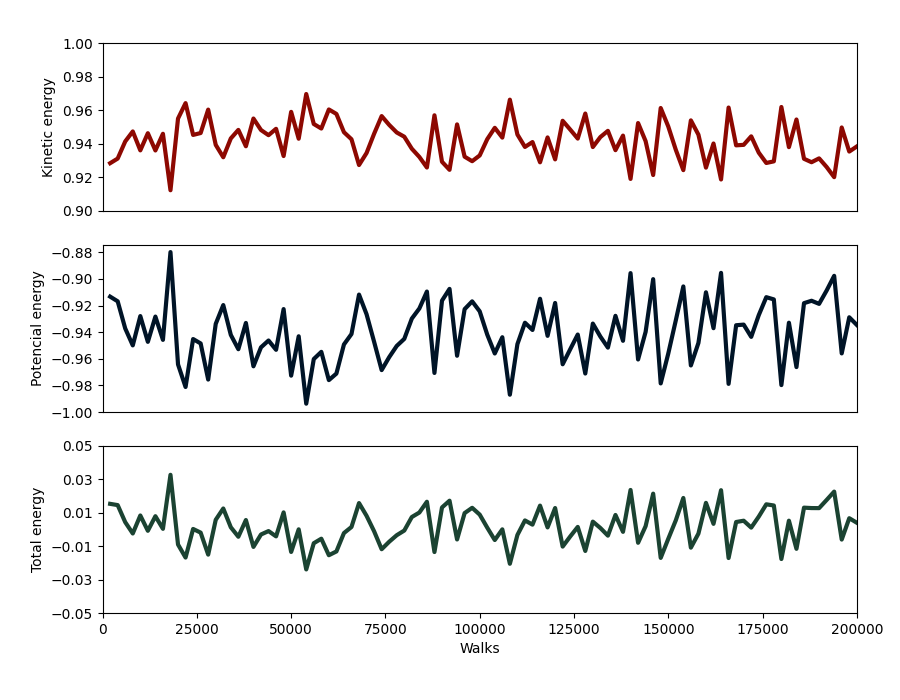
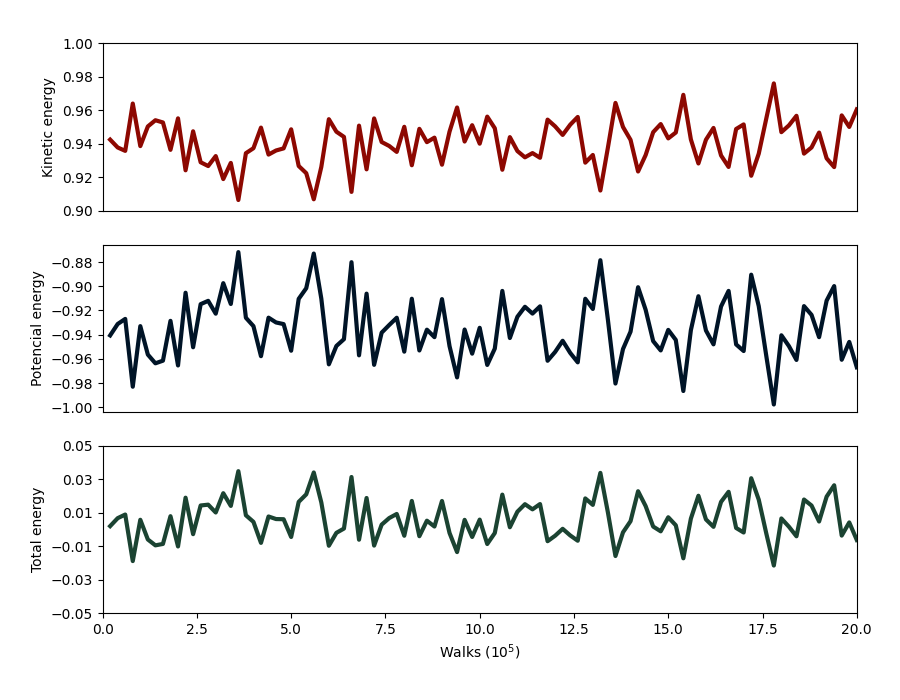
[ADD] Final Results

diff --git a/Simulaciones/Proyecto_1/Scripts/Energy_Graphics.py b/Simulaciones/Proyecto_1/Scripts/Energy_Graphics.py
@@ -1,10 +1,11 @@
 import numpy as np
 import matplotlib.pyplot as plt
 #<---------------------------Funcion para graficar----------------->
-def plot(ax,energy,color,ylabel,yticks,max):
-    ax.set_xlim(0,max)
+def plot(ax,energy,color,ylabel,yticks,x):
+    x=x*1e-5
+    ax.set_xlim(0,x[-1])
     ax.set_ylabel(ylabel)
-    ax.plot(walks,energy,color=color,lw=3)
+    ax.plot(x,energy,color=color,lw=3)
     if ax!=ax3:
         ax.set_xticks([])
     ax.set_yticks(yticks)
@@ -12,15 +13,14 @@ def plot(ax,energy,color,ylabel,yticks,max):
 dir_results="../Results/";dir_graphics="../Graphics/"
 #<-_----------------------Grafica de la energía--------------------------------->
 walks,e_kin,e_pot=np.loadtxt(dir_results+"8_T_U_P.dat",unpack=True,usecols=[0,1,2])
-max_walks=np.max(walks)
 e_pot=e_pot*1e3
 e_tol=e_pot+e_kin
 fig,(ax1,ax2,ax3)=plt.subplots(3,figsize=(9,7))
 #<---------------------------Dimensiones de la grafica-------------------------->
 plt.subplots_adjust(left=0.114,right=0.952,bottom=.124,top= 0.938)
 #<--------------------------Ploteo de cada energia con sus parametros----------------------->
-plot(ax1,e_kin,"#8d0801","Kinetic energy",np.arange(0.9,1.02,0.02),max_walks)
-plot(ax2,e_pot,"#001427","Potencial energy",np.arange(-1,-0.87,0.02),max_walks)
-plot(ax3,e_tol,"#1b4332","Total energy",np.arange(-0.05,0.07,0.02),max_walks)
-plt.xlabel("Walks")
+plot(ax1,e_kin,"#8d0801","Kinetic energy",np.arange(0.9,1.02,0.02),walks)
+plot(ax2,e_pot,"#001427","Potencial energy",np.arange(-1,-0.87,0.02),walks)
+plot(ax3,e_tol,"#1b4332","Total energy",np.arange(-0.05,0.07,0.02),walks)
+plt.xlabel("Walks (10$^{5}$)")
 plt.savefig(dir_graphics+"Energy.png")

diff --git a/Simulaciones/Proyecto_1/Scripts/Dim_gif.py b/Simulaciones/Proyecto_1/Scripts/Dim_gif.py
@@ -26,6 +26,7 @@ n_walks=np.size(walks)
 lim=np.arange(-30,35,5)
 #<--------------------------------Reposicion de las particulas---------------------->
 lim_real=np.arange(0,65,5)
+print("Creando graficas")
 for walk,walk_real in zip(range(n_walks),walks):
     #<--------------------------------Lectura de las posiciones------------------------------------->
     pos_x,pos_y=np.loadtxt(dir_results+"3_coor.dat",unpack=True,usecols=[0,1],skiprows=walk*(n_part+1)+1,max_rows=n_part)
